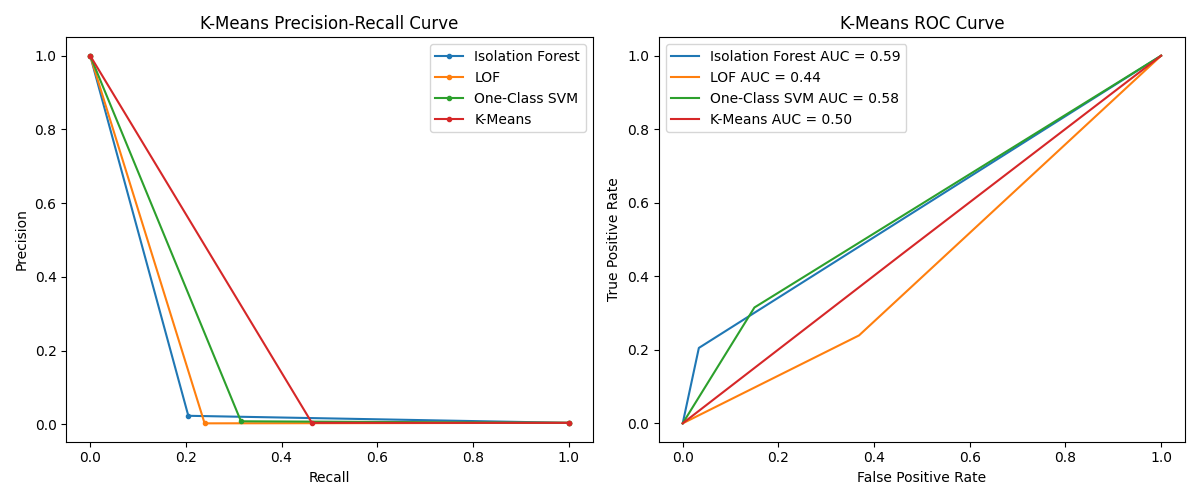
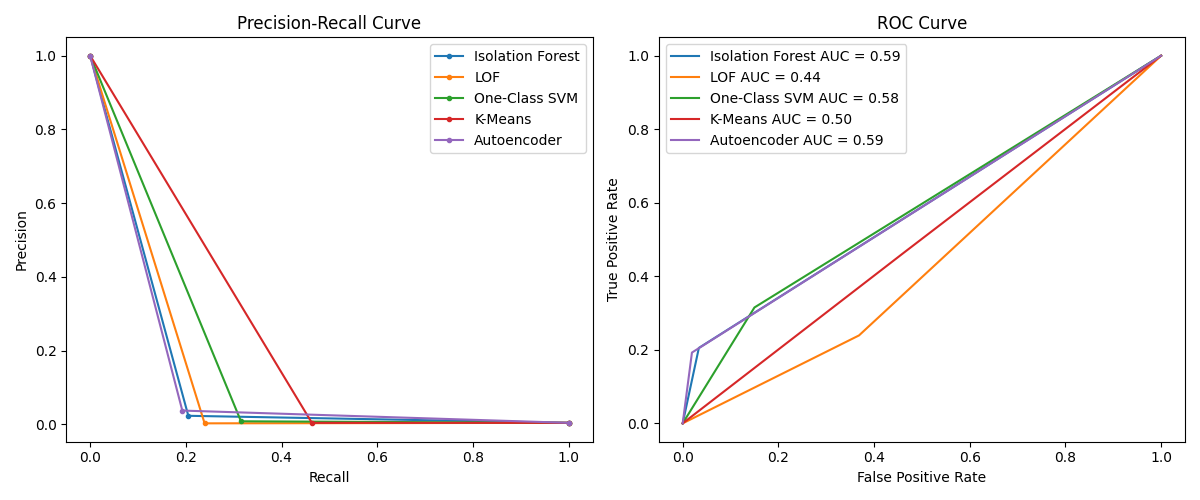
Add Autoencoder comparison results and update readme

diff --git a/README.md b/README.md
@@ -244,10 +244,24 @@ PR + ROC Curves:
 ### Progress
 
 Added model saving and loading, extracted the data loading and preprocessing into a separate file.
-Added an Autoencoder model.
+Added an Autoencoder mode and compared it with the other models.
+
+Autoencoder:
+
+|              | precision | recall | f1-score | support |
+|--------------|-----------|--------|----------|---------|
+| 0.0          | 1.00      | 0.98   | 0.99     | 553574  |
+| 1.0          | 0.04      | 0.19   | 0.06     | 2145    |
+| accuracy     |           |        | 0.98     | 555719  |
+| macro avg    | 0.52      | 0.59   | 0.53     | 555719  |
+| weighted avg | 0.99      | 0.98   | 0.99     | 555719  |
+
+![covariance matrix](images/AEcm.png)
 
 ### Next week's goals
-
+- Improve model parameters
+- Add short explanation of comparison metrics
+- Improve Autoencoder architecture or try other deep learning models
 
 
 
